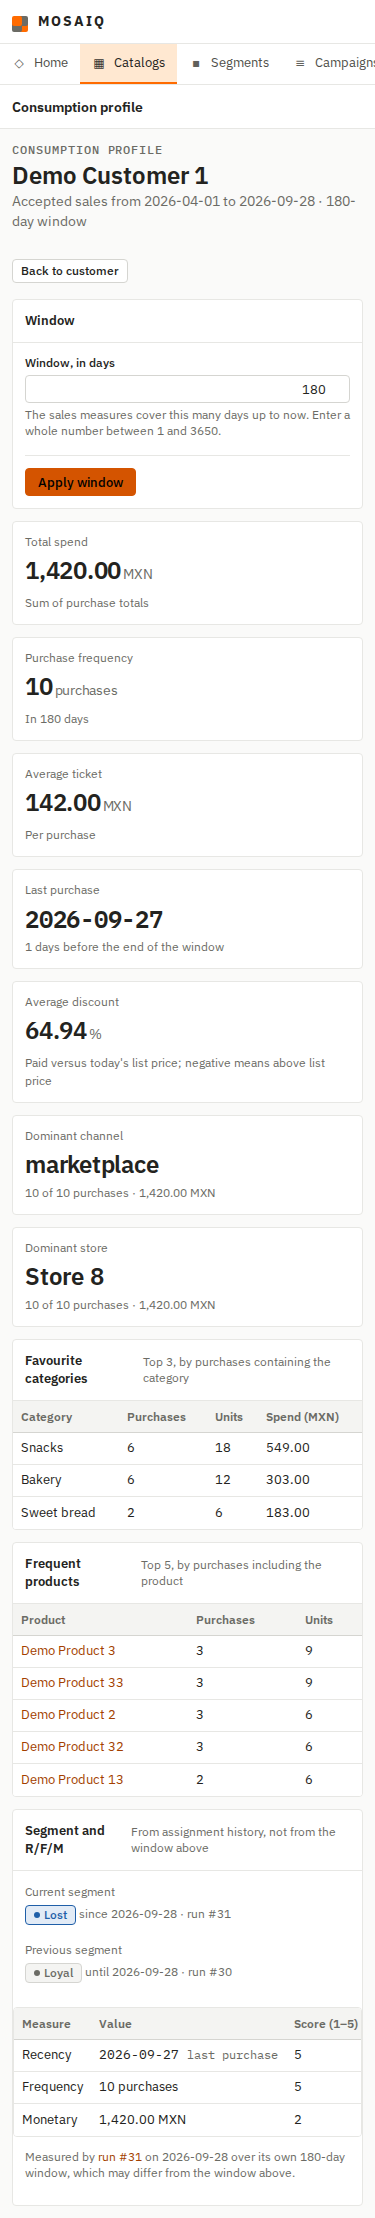
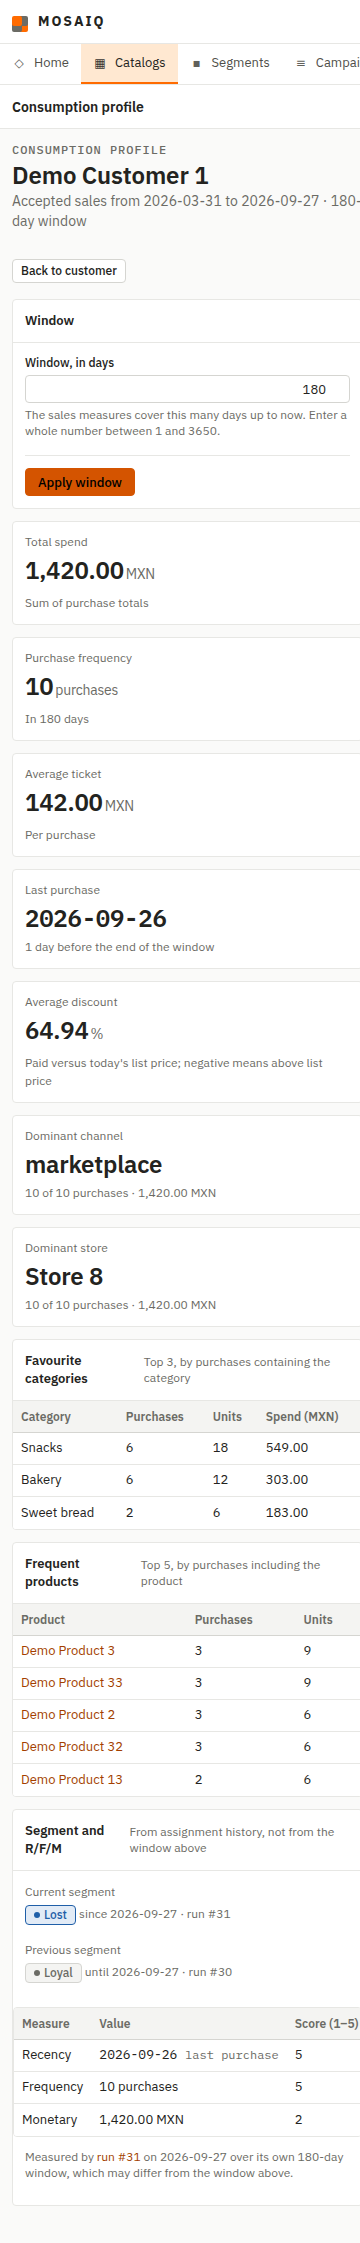
docs(profile): retake the F8-04 captures and record the store-manager decision (#212)
The 375 px capture showed '1 days', which the template no longer renders.
Every capture is retaken on the fixed code, with the window, the purchase
dates and the run dates all in one time zone. The store manager's 403 now
cites the decision recorded on #212.

diff --git a/docs/evidence/f8-04-consumption-profile-view.md b/docs/evidence/f8-04-consumption-profile-view.md
@@ -24,6 +24,11 @@ DATABASE_URL=postgresql://retail_app:retail_app@127.0.0.1:5432/retail \
   FLASK_ENV=development python -m flask --app web.app run
 ```
 
+The captures in this document were retaken on 2026-09-27 after the review fixes
+below. They were taken against PostgreSQL 16.2 (a local build without `pg_trgm`, so
+that one line of `00_create_database.sql` was stripped locally), with the session
+time zone `America/Mexico_City`.
+
 Accounts: `user14@mosaiq-demo.com` (ANALYST) and `user15@mosaiq-demo.com`
 (STORE_MANAGER). Both are published demonstration accounts and no credential is
 legible in any capture.
@@ -32,8 +37,8 @@ legible in any capture.
 seed itself calls illustrative, so a page opened on the raw seed shows 11 purchases
 and 402.50 MXN in the R/F/M block next to the 10 purchases and 1,420.00 MXN the
 sales give. After one `RFM_RULES` run over 180 days the two agree, and the captures
-were taken after it. That run also scored the extra customer created for the
-no-history capture, who therefore appears as *Unassigned* (RN-21).
+were taken after it. That run (#31) also scored the extra customer created for the
+no-history capture, *Customer Without Sales*, who therefore appears as *Unassigned* (RN-21).
 
 The spend here is 1,420.00 MXN, not the 2,750.00 in the F8-03 evidence, because
 `develop`'s seed has since been reconciled so that header totals equal the sum of
@@ -53,17 +58,17 @@ Customer *Demo Customer 1*, default 180-day window.
 | Total spend | `1,420.00` | MXN |
 | Purchase frequency | `10` | purchases, "in 180 days" |
 | Average ticket | `142.00` | MXN, per purchase |
-| Last purchase | `2026-09-27` | date, with days before the end of the window |
+| Last purchase | `2026-09-26` | date, with days before the end of the window ("1 day before") |
 | Average discount | `64.94` | %, "paid versus today's list price; negative means above list price" |
 | Dominant channel, dominant store | name, "10 of 10 purchases · 1,420.00 MXN" | purchases and MXN |
 | Favourite categories | table: purchases, units, spend | MXN |
 | Frequent products | table: purchases, units | |
 | Recency, Frequency, Monetary | value and score 1–5 | date, purchases, MXN |
 
-The window appears three times: in the page header (*Accepted sales from 2026-04-01
-to 2026-09-28 · 180-day window*), in a form that changes it, and in each measure's
+The window appears three times: in the page header (*Accepted sales from 2026-03-31
+to 2026-09-27 · 180-day window*), in a form that changes it, and in each measure's
 footer. The R/F/M block states its own window separately (*Measured by run #31 on
-2026-09-28 over its own 180-day window, which may differ from the window above*),
+2026-09-27 over its own 180-day window, which may differ from the window above*),
 because it is the run's window and not the profile's.
 
 The discount's footer says what it is measured against, which is RN-35: it can be
@@ -111,16 +116,15 @@ refusal is also asserted for all three roles, and the build fails if the route i
 ever registered without a declaration
 (`test_refusal_matrix_covers_every_protected_route`, which this story extends).
 
-### Open point: the role the story names is refused
+### The role the story names is refused, by decision
 
 The story is written *as a store manager*, and `STORE_MANAGER` holds no
-`segment.read`, so the capture above is that role being turned away. The
-requirement was followed as written — *gated through the permission F4-07
-assigns* — and the map assigns `segment.read`, which the store manager does not
-hold. Making the page reachable to that role means either granting
-`segment.read` to `STORE_MANAGER`, which would also open every other `segment.read`
-surface to them, or assigning this page a different permission. That is a change to
-the permission matrix, which is not decided here.
+`segment.read`, so the capture above is that role being turned away. The Proxy PO
+decided on #212 (2026-09-27) to keep it that way: the page stays behind the
+permission F4-07's map assigns. Granting `segment.read` to `STORE_MANAGER` would
+also open run history, migration and every segment dashboard to that role. A
+store-manager view, if one is ever needed, would be a new permission and a new
+story.
 
 ## 375 px and 1440 px
 
@@ -131,6 +135,8 @@ Horizontal overflow, measured in the browser as
 |---|---|---|
 | Profile | 0 px | 0 px |
 | No purchase history | 0 px | 0 px |
+| Window without sales | 0 px | 0 px |
+| Refused window (400) | 0 px | 0 px |
 
 At 375 px the measures stack into one column and the tables fit their panels, with
 no horizontal scrolling.
@@ -142,8 +148,18 @@ no horizontal scrolling.
   [`f8-04-invalid-window-1440.png`](f8-04-invalid-window-1440.png). The window is
   read with the same `parse_window` the segment run uses, so the two refuse the
   same inputs.
-* **An unknown customer** answers 404, whether the route finds no row or the
-  service raises `UnknownCustomer`.
+* **An unknown customer** answers 404. With a usable window the service raises
+  `UnknownCustomer`; with a refused window the route looks the customer up itself
+  before it renders the 400.
+* **One time zone.** When no `as_of` is given, the window ends at the connection's
+  session time zone, so the window dates and the dates read from the database
+  (last purchase, segment validity, run date) are in the same zone and cannot
+  disagree by a day near midnight.
+* **One customer lookup per request.** The profile carries the customer's name,
+  so on a usable window the route does not look the customer up a second time.
+* **The window limits come from the code.** The hint, the input's `min`/`max` and
+  the refused-window summary read `MIN_WINDOW_DAYS` and `MAX_WINDOW_DAYS`.
+  They are not written by hand.
 * **It only reads.** A `POST` answers 405.
 * **It never names how a run was made.** No page text contains `rfm_rules`,
   `kmeans` or `cluster` (ADR-0018).
@@ -154,7 +170,8 @@ no horizontal scrolling.
 
 ```
 $ pytest -q
-1020 passed         # 983 on develop, plus 35 in tests/test_customer_profile_route.py
+1023 passed         # 983 on develop, plus 37 in tests/test_customer_profile_route.py,
+                    # 1 in tests/test_consumption_profile.py (the time zone),
                     # and 2 rows the refusal matrix now runs for the new route
 $ black --check .   # 91 files would be left unchanged
 $ ruff check .      # All checks passed!
